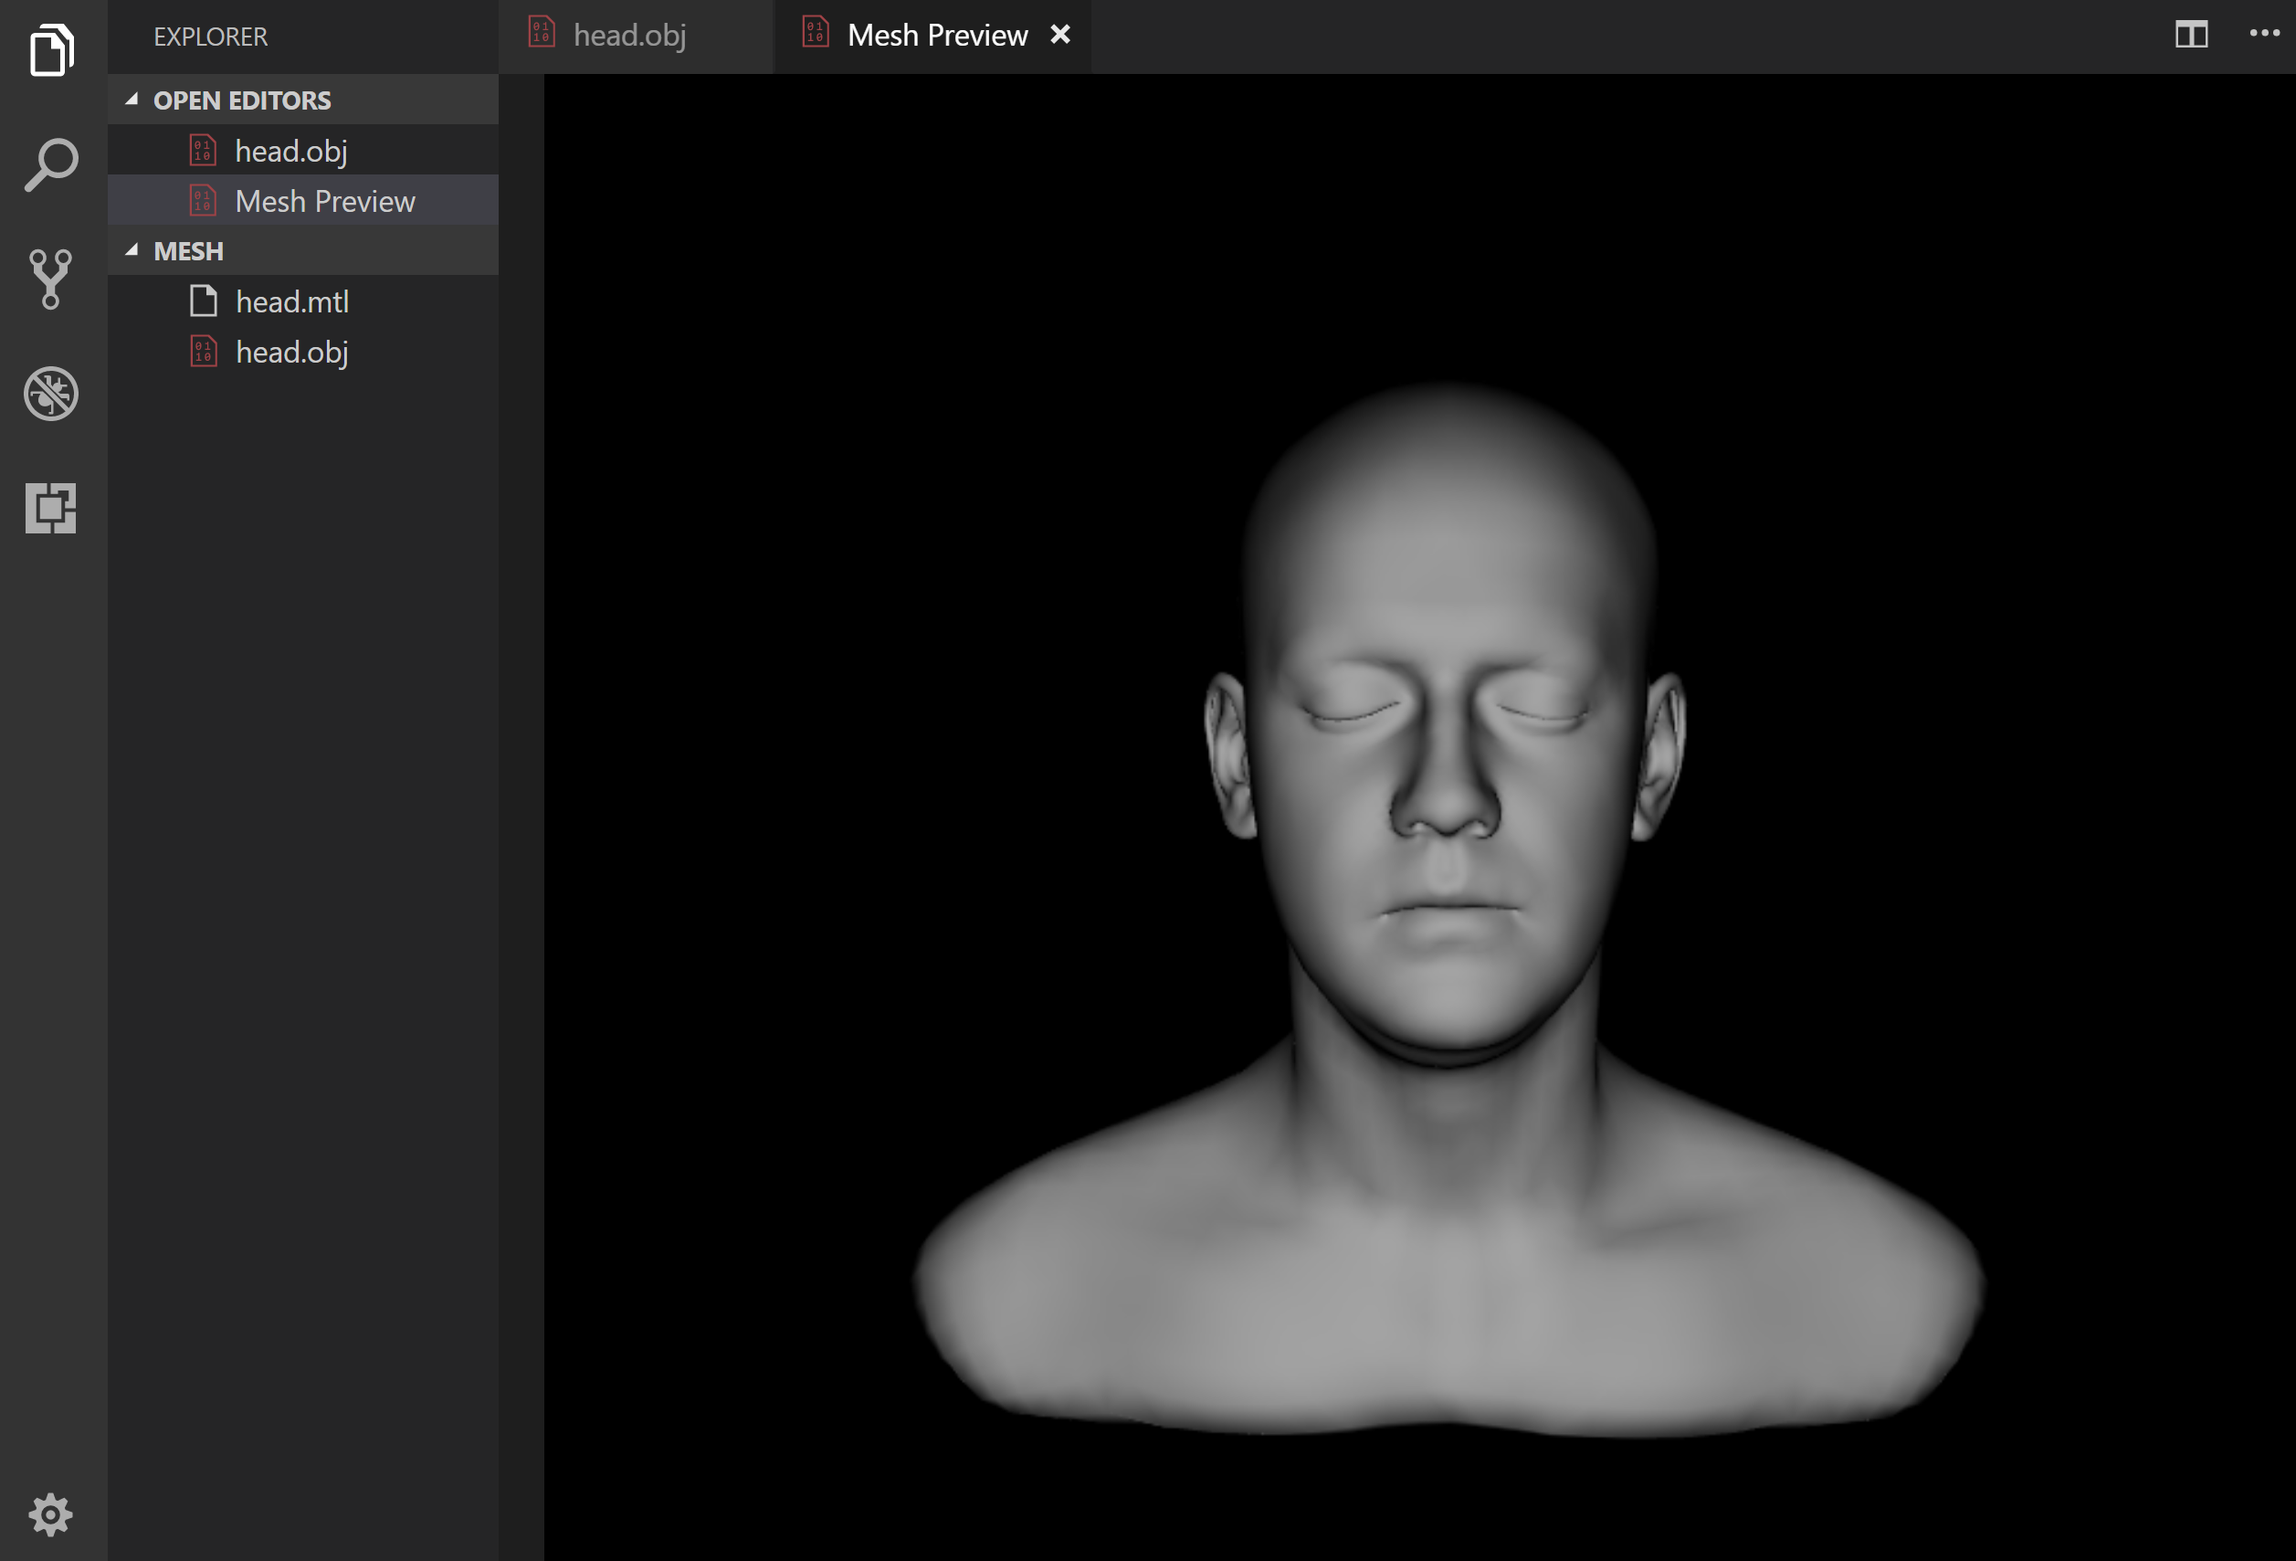
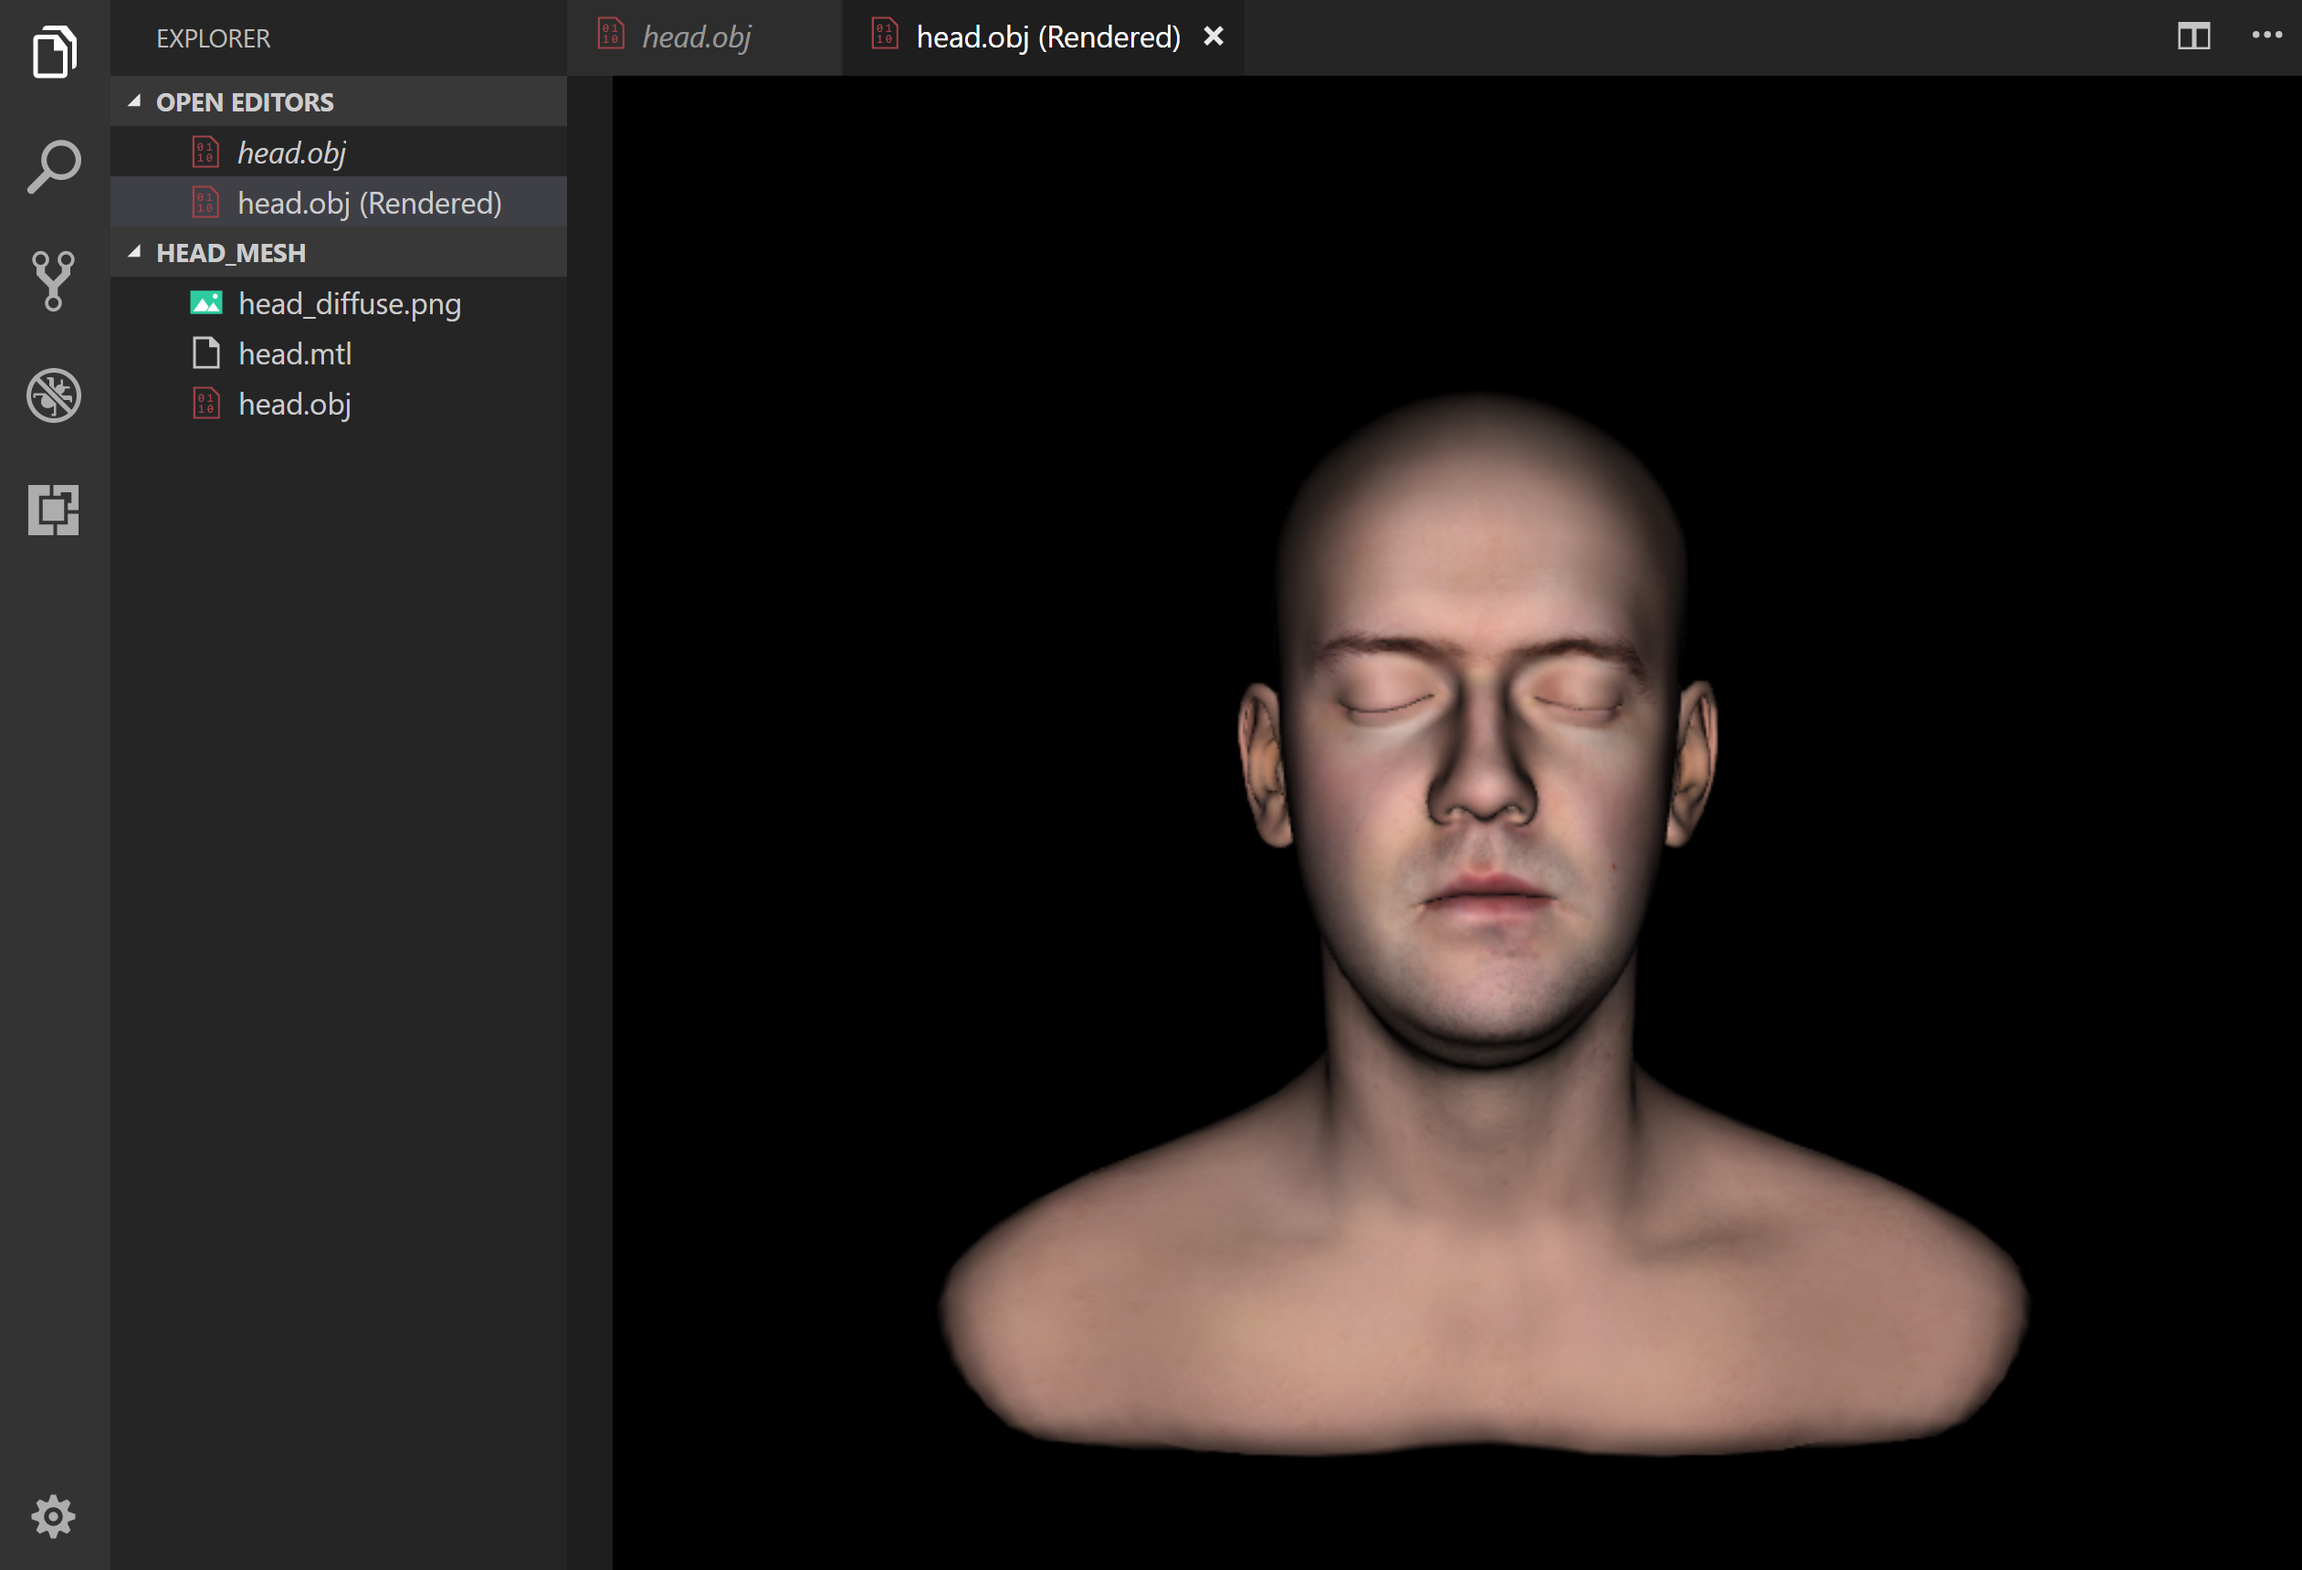
Update docs

diff --git a/README.md b/README.md
@@ -18,5 +18,6 @@ Mouse wheel    | Zoom in and out
 `G`            | Toggle `x`, `y`, `z` axes
 
 ## Known Issues
-- `mtl` support is currently limited to properties `Ka`, `Kd`, `Ks`, `Ns`
+- `mtl` support is currently limited to properties `Ka`, `Kd`, `Ks`, `Ns`, `map_Kd`
+- Rendering meshes from different .obj files in separate tabs is not yet supported
 - Clumsy camera movement

diff --git a/CHANGELOG.md b/CHANGELOG.md
@@ -1,5 +1,8 @@
 # Change Log
 
+## [0.0.8]
+- Support for map_Kd (diffuse texture map)
+
 ## [0.0.7]
 - Minor update to README
 
